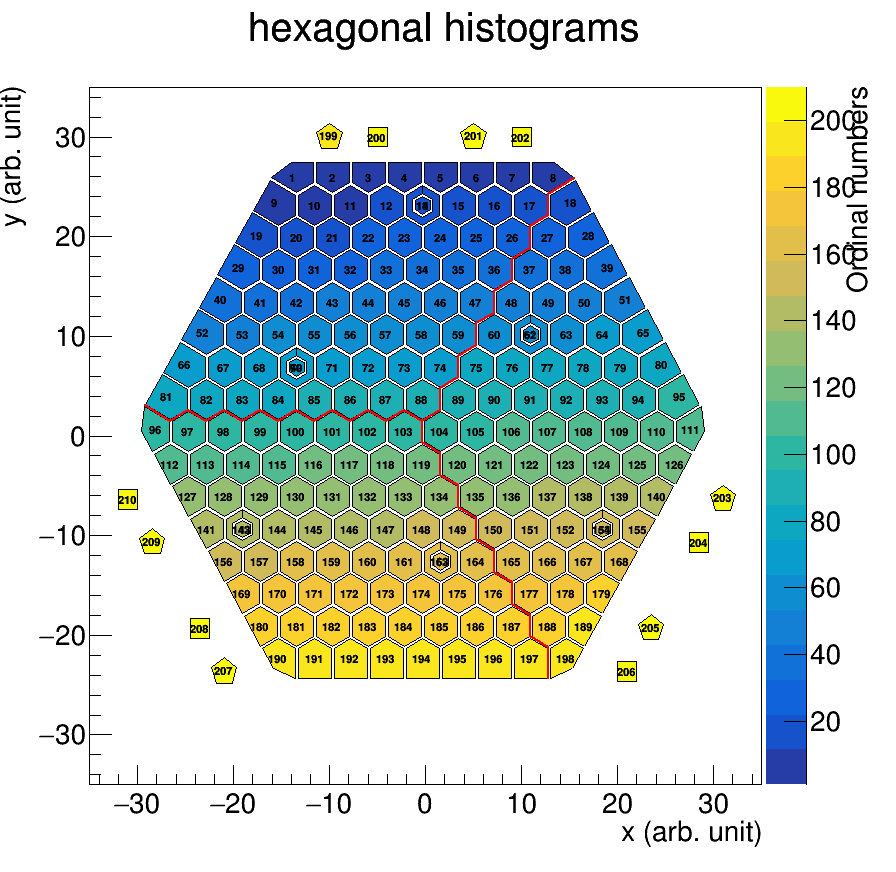
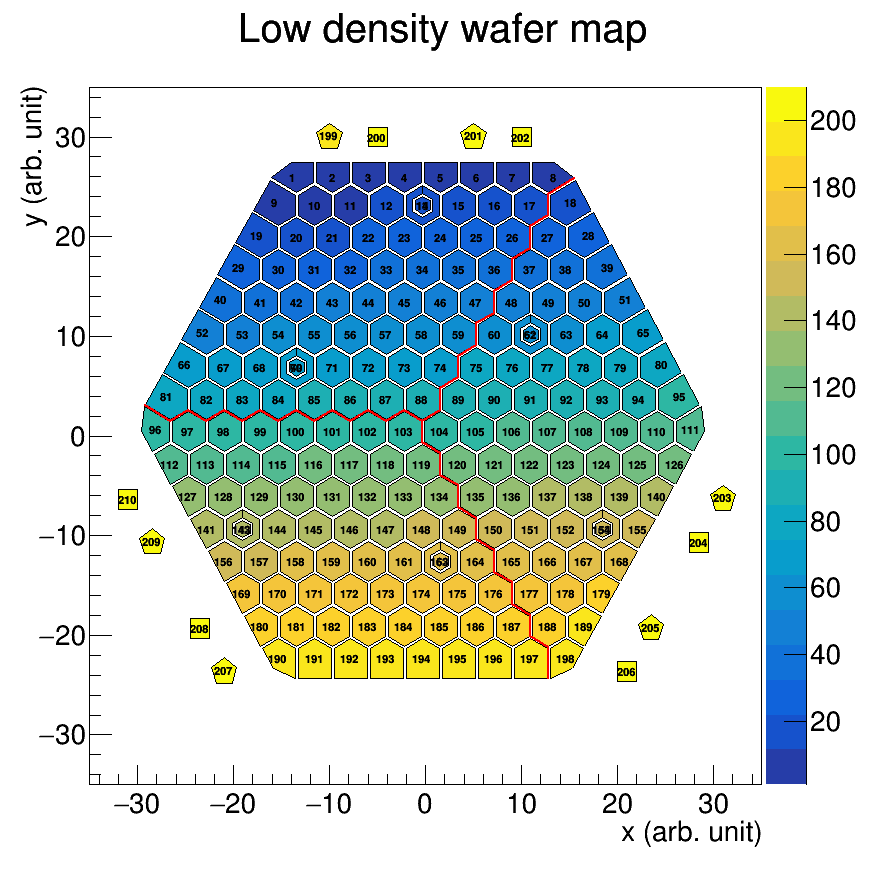
Minor fine tune in th2poly macro

Changed region(s): [[0.25, 0.0, 0.7188, 0.0619], [0.0, 0.0929, 0.0625, 0.2787], [0.9375, 0.0929, 0.9688, 0.3406]]

diff --git a/th2poly.C b/th2poly.C
@@ -4,11 +4,12 @@ void th2poly(TString inputfile, TString outputfile, double range, bool drawLine=
 
     TFile *f = TFile::Open(inputfile,"R");
 
-    TH2Poly *p = new TH2Poly("hexagonal histograms", "hexagonal histograms", -1*range, range, -1*range, range);
+    TH2Poly *p = new TH2Poly("hexagonal histograms", "Low density wafer map", -1*range, range, -1*range, range);
     p->SetStats(0);
     p->GetXaxis()->SetTitle("x (arb. unit)");
     p->GetYaxis()->SetTitle("y (arb. unit)");
-    p->GetZaxis()->SetTitle("Ordinal numbers");
+    //p->GetZaxis()->SetTitle("Ordinal numbers");
+    p->GetYaxis()->SetTitleOffset(1.1);
 
 	int counter = 0;
 
